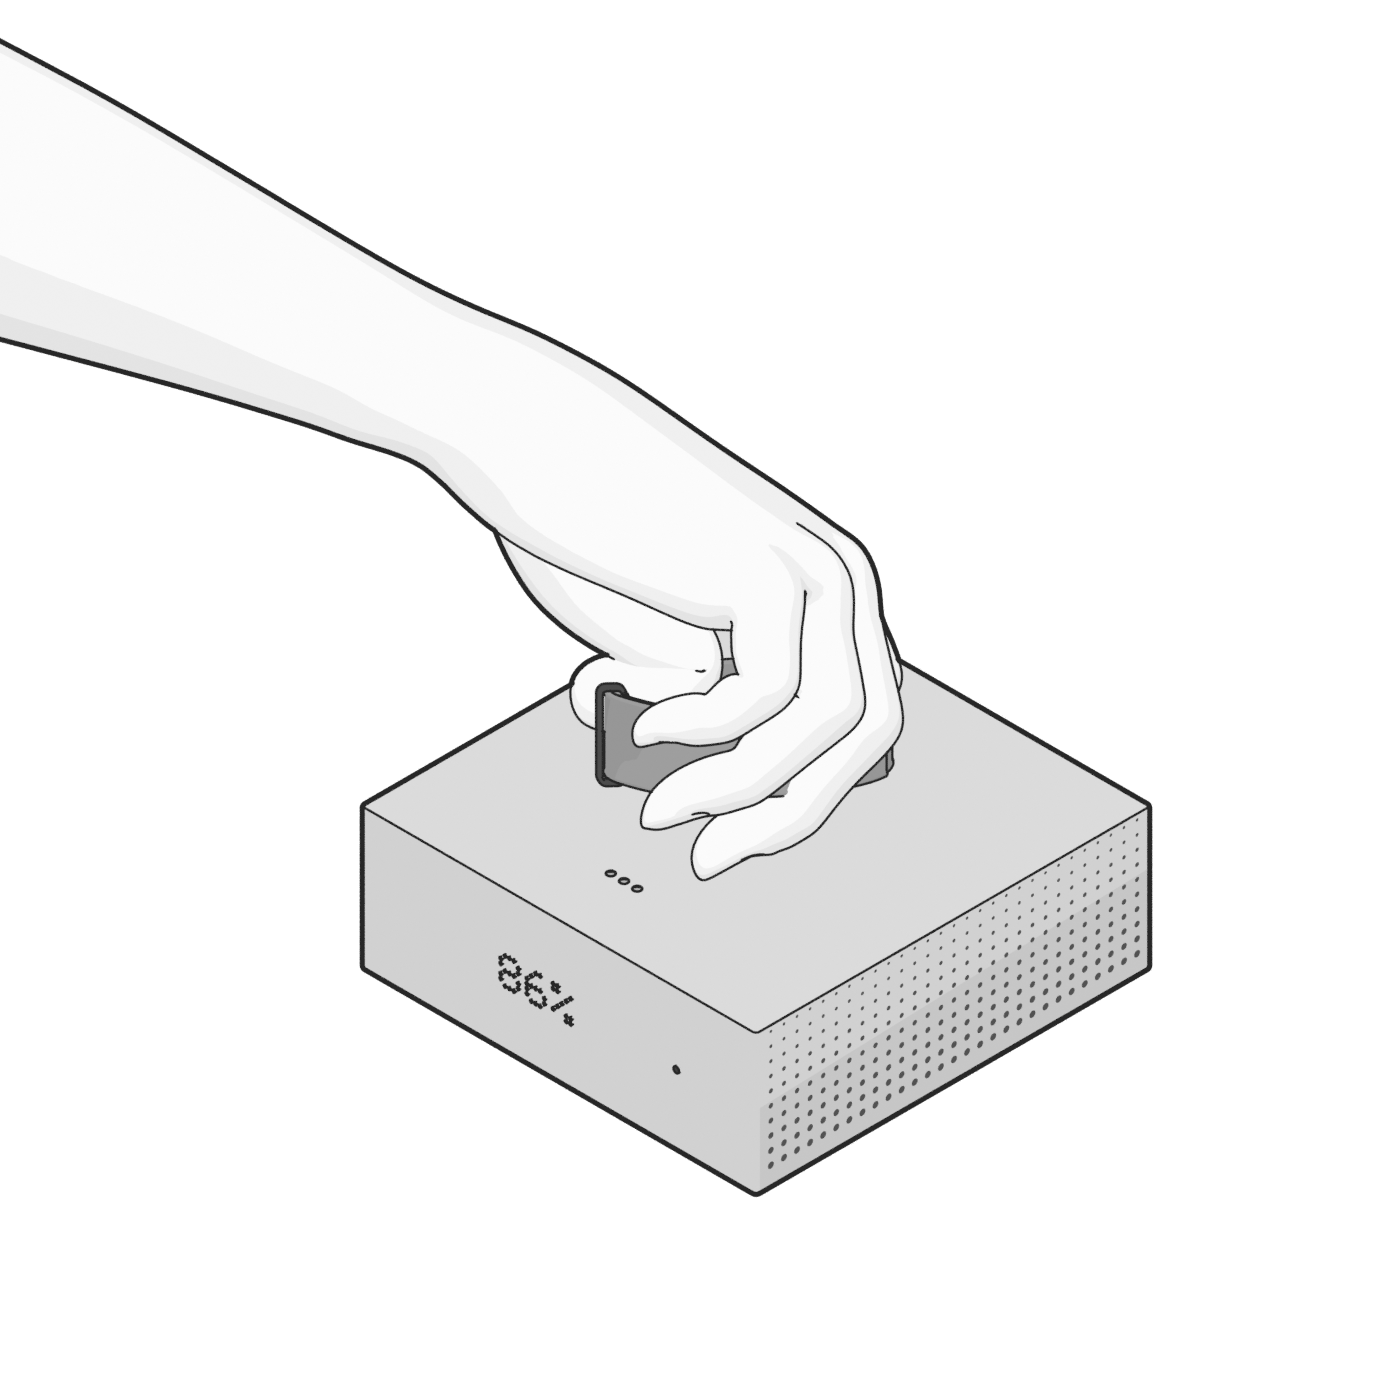
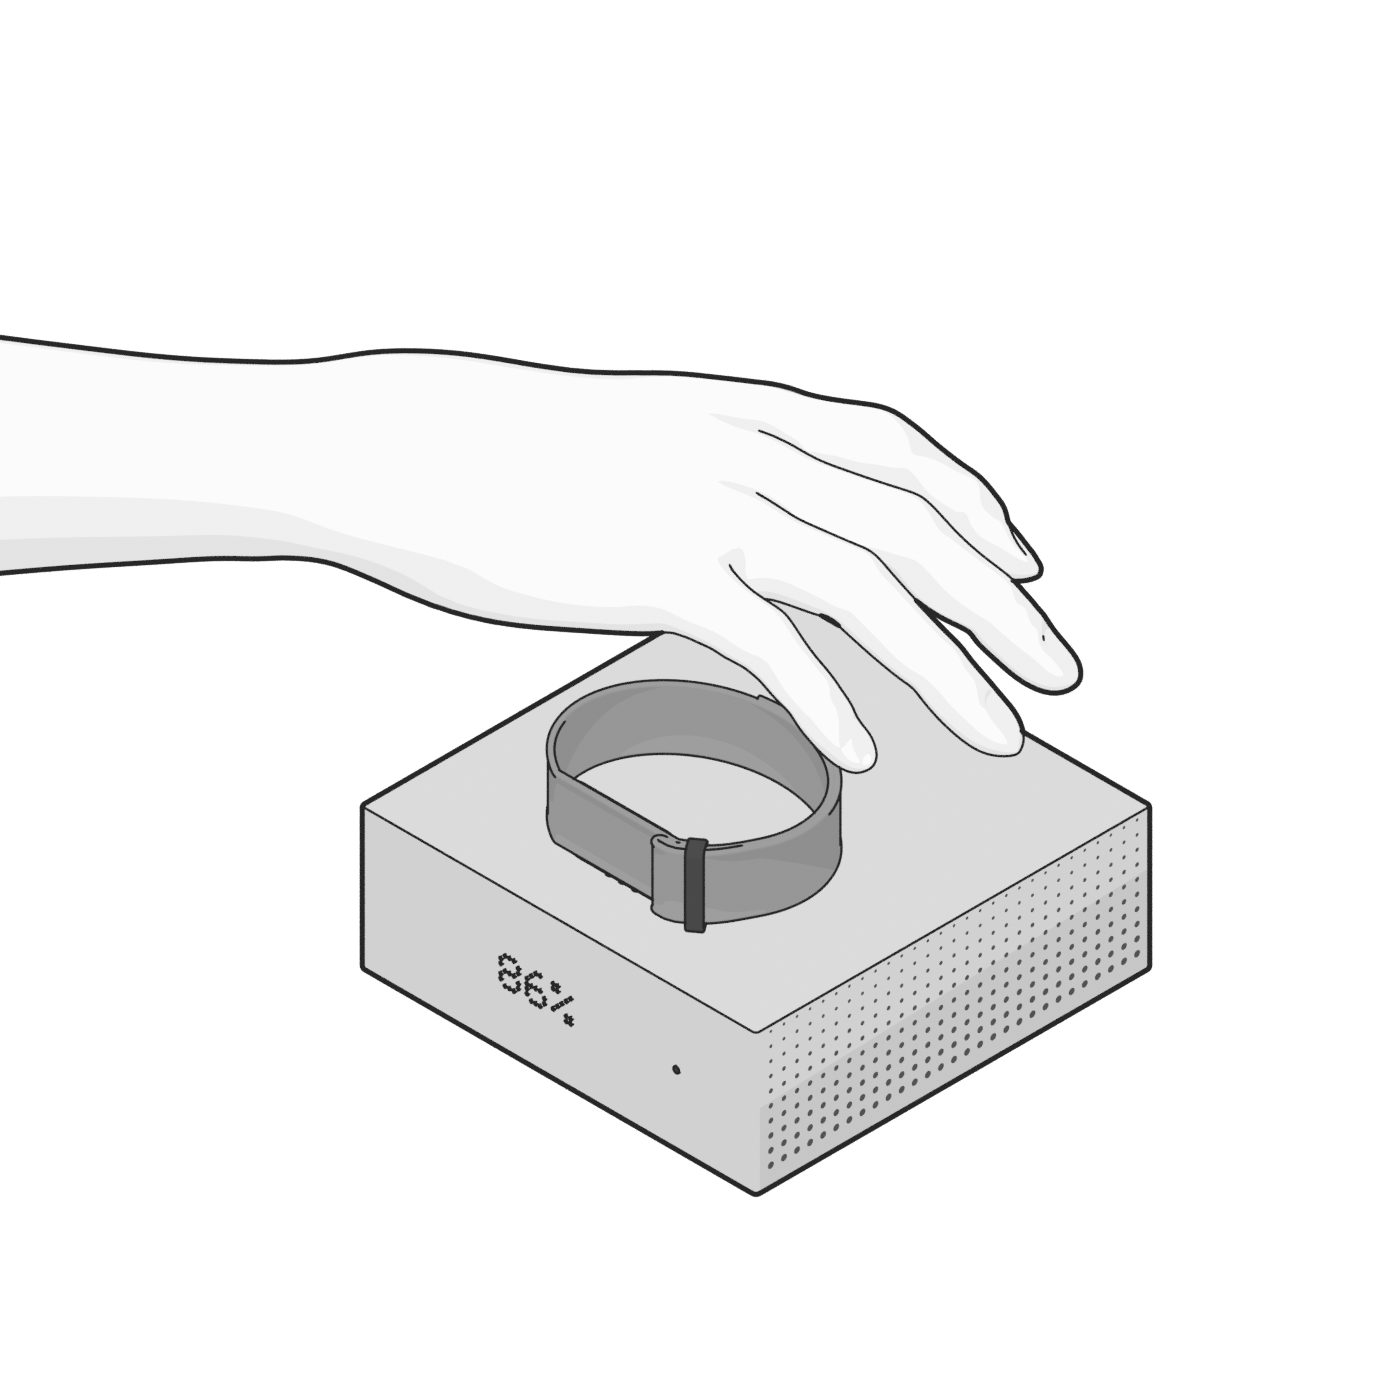
Deck: AuraWake bracelet visible in the hand, docked on the pins in the last gesture

diff --git a/deck/index.html b/deck/index.html
@@ -848,7 +848,7 @@
       return `<path class="arw" style="stroke: ${fg === '#cfcdc6' ? '#e9e7e1' : 'var(--ink)'}" d="M${P(x, y, z0)} L${P(x, y, z1)} M${tip[0] - 7} ${tip[1] + 7 * d} L${tip[0]} ${tip[1]} L${tip[0] + 7} ${tip[1] + 7 * d}" />`;
     };
     if (n === 1) g += arrow(TOP + 0.03, TOP + 0.085);
-    if (n === 3) g += arrow(TOP + 0.07, TOP + 0.025);
+    if (n === 3) g += arrow(TOP + 0.085, TOP + 0.125);                                 // docked: the hand lets go
     if (n === 2) g += arrow(TOP + 0.125, TOP + 0.088, 0.012, 0.012);                       // a short tap, from above
     if (n === 4) {                                                                     // held: a 3-second ring
       const [cx, cy] = P(0.012, 0.012, TOP + 0.095).split(' ').map(Number), r = 15, a = 2 * Math.PI * 0.75;

diff --git a/deck/blender/aura.py b/deck/blender/aura.py
@@ -955,7 +955,14 @@ def build_gesture(n):
         br.matrix_world = (Matrix.Translation(wrist + R @ Vector((-0.004, yc, zc))) @ Matrix.Rotation(math.atan2(-F.y, -F.x), 4, 'Z')
                            @ Matrix.Rotation(math.pi / 2, 4, 'Y') @ Matrix.Diagonal(br.scale.to_4d()))   # ring round the wrist, pod underneath
         return group('gesture', [base, br] + hand)
-    z0 = TOP + (0.055 if n == 1 else 0.012)
+    if n == 3:                 # put back: the bracelet docked, its flat sensor edge on the row of pins; the hand lets go
+        br = build_bracelet(TOP); br.rotation_euler = (0, 0, -math.pi / 2)          # the pod's long side along the pins
+        pod = Vector((STRAP_XF - POD_T, 0.0005, 0))
+        br.location = Vector((0, -W / 2 + 0.020, TOP)) - Matrix.Rotation(-math.pi / 2, 3, 'Z') @ pod
+        F = Vector((1, 1, 0)).normalized()
+        hand, tips = build_hand('palm', basis(F, Vector((0, 0, 1)).cross(F)), Vector((-0.07, -0.07, TOP + 0.05 - palm_z('palm'))))
+        return group('gesture', [base, br] + hand)
+    z0 = TOP + 0.055
     br = build_bracelet(z0); br.rotation_euler.z += math.radians(225)
     gp = TURN @ Vector((GRIP[0], GRIP[1], 0))
     pin = Vector((gp.x, gp.y, z0 + STRAP_LIFT + STRAP_H - 0.004))
@@ -965,6 +972,18 @@ def build_gesture(n):
     bpy.context.view_layer.update()
     M = Matrix.Translation(pin) @ Matrix.Rotation(math.radians(25), 4, Vector((-1, -1, 0)).normalized()) @ Matrix.Translation(-pin)
     for o in [br] + hand: o.matrix_world = M @ o.matrix_world
+    # held the other way round (thumb inside the band, index outside): the ring hangs on the viewer's side of the hand
+    bpy.context.view_layer.update()
+    br.matrix_world = Matrix.Translation(pin) @ Matrix.Rotation(math.pi, 4, 'Z') @ Matrix.Translation(-pin) @ br.matrix_world
+    # held by one side, the stiff band tips a little: it comes out from under the hand
+    bpy.context.view_layer.update()
+    ti, tt = M @ tips['index'], M @ tips['thumb']
+    ax = (tt - ti).normalized().cross(Vector((0, 0, 1))).normalized()
+    c0 = br.matrix_world.translation.copy()
+    for sg in (1, -1):
+        T = Matrix.Translation(pin) @ Matrix.Rotation(sg * math.radians(30), 4, ax) @ Matrix.Translation(-pin)
+        if (T @ c0).z < c0.z: break
+    br.matrix_world = T @ br.matrix_world
     return group('gesture', [base, br] + hand)
 
 # ---------------------------------------------------------------------------------------------------------------

diff --git a/HANDOFF.md b/HANDOFF.md
@@ -1158,6 +1158,10 @@ When a CLOUD session hits something that needs the local environment, it must:
   the top so the time stays readable; pinches (01, 04) turned 225° (`TURN`), lighter pinch (other fingers relaxed),
   rolled 25° about the arm so thumb and index on the band face the viewer; 01 lifts the bracelet 55 mm. Framing
   offset now −12 mm (ground 302.4, 390.6); arrows moved right of the bracelet; room labels bottom right.
+- **2026-10-30 · LOCAL (60)** · Bracelet easier to see, still realistic (owner): in 01 it is held thumb-inside,
+  index-outside (bracelet turned 180° about the pinch), so the ring hangs on the viewer's side of the hand, and tips 30°
+  as a stiff band held by one side. 04 now shows the bracelet docked: standing on the top with the pod's flat sensor
+  edge on the row of pins (rotation −90°, pod centre on (0, −40 mm)); the open hand lifts away (arrow up).
 - **2026-10-28 · LOCAL (33)** · LED renders: 3/4 close view of the front corner (the alarm reads), saturated state colours
   (`LED_SAT`: white #fff6ea, night #5f6dff, dawn #ffa938) at LOW emission (1.4; 6 for white) so AgX keeps the hue, plus
   a post glow tinted with the state colour: `node deck/blender/glow.mjs <in.png> <out.jpg> 8 '#5f6dff'` (only the LED's
